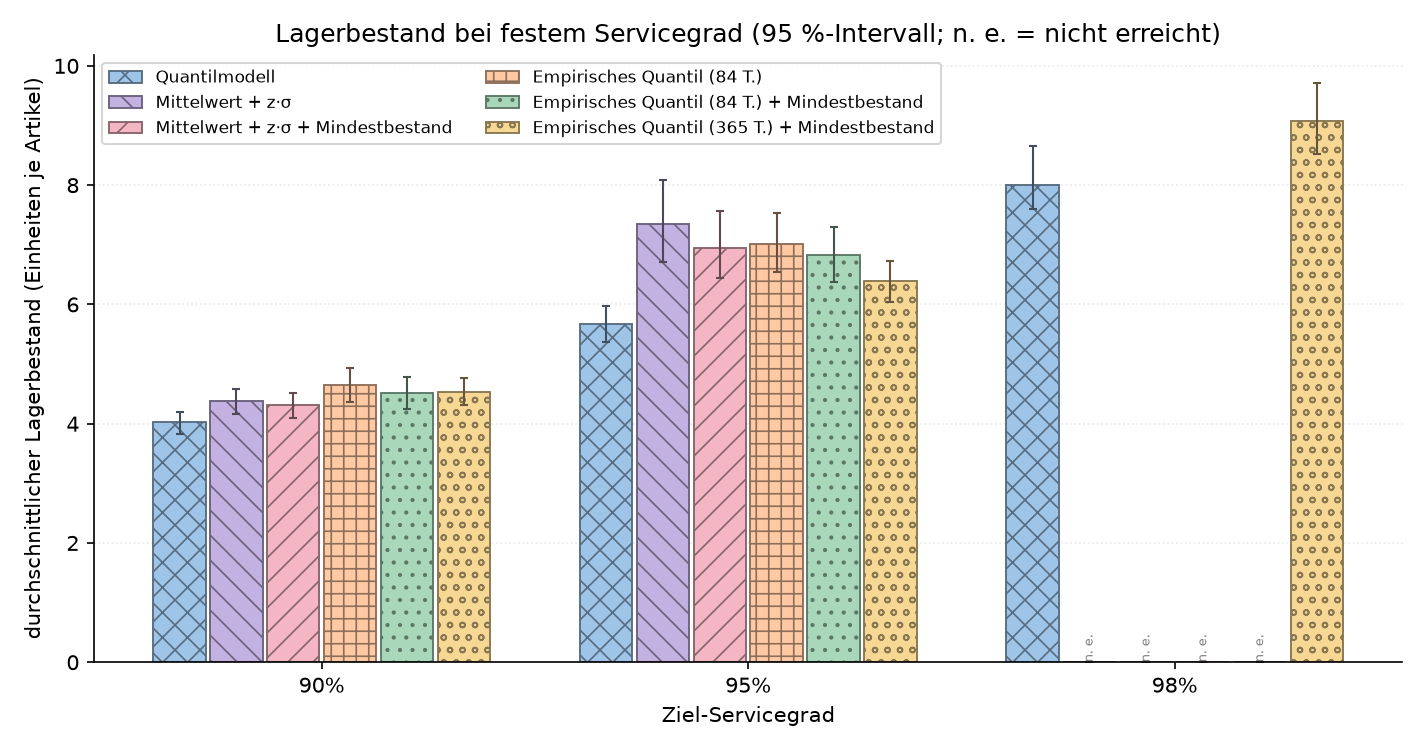
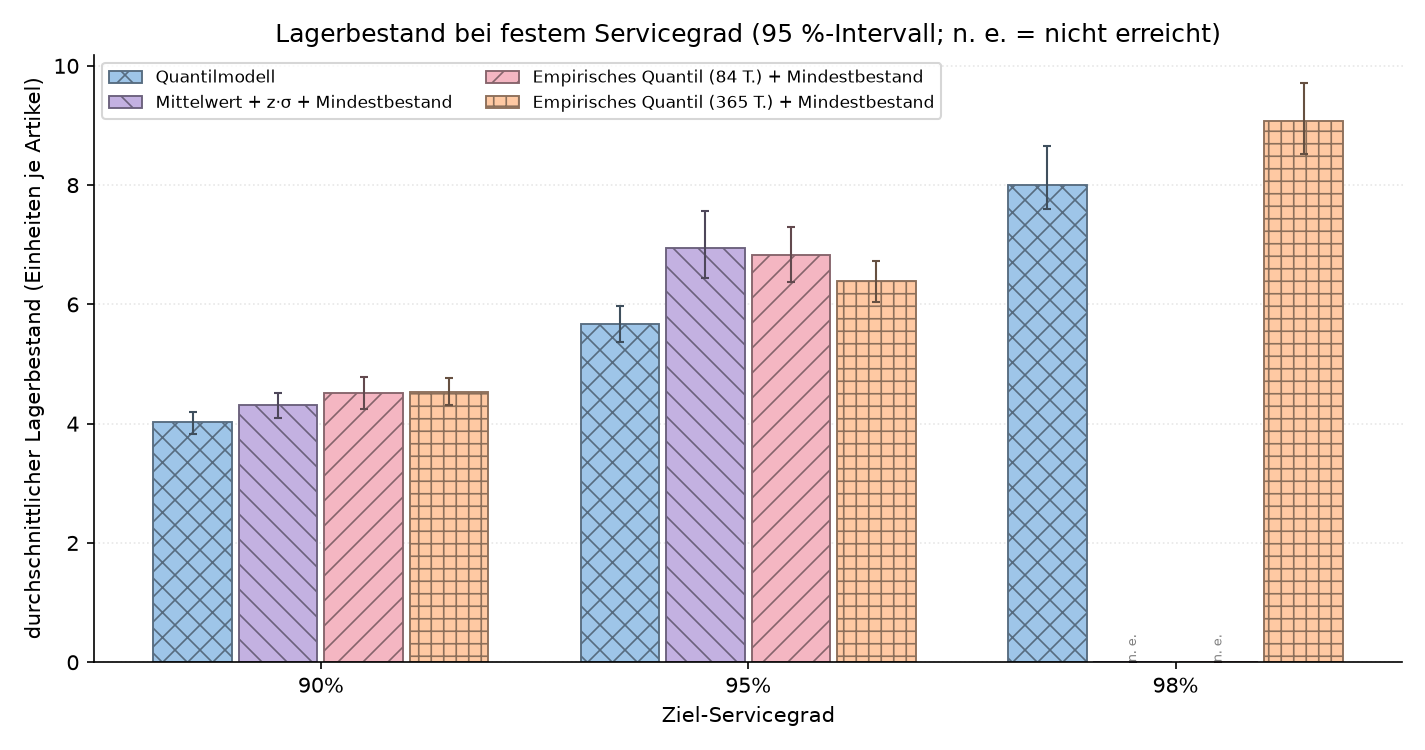
Dokumentation aktualisiert

diff --git a/docs/methodik.md b/docs/methodik.md
@@ -35,11 +35,11 @@ Grenzen und Hinweise zur Ausführung.
    Das Modell für die Bestandsentscheidung sagt die Bedarfssumme über Lieferzeit + 1 Tage direkt
    voraus. Das Trainingsfenster endet so, dass kein Zielfenster in den Testzeitraum reicht.
    Zusätzlich gibt es tägliche Quantilmodelle, die nur der Genauigkeitsmessung (WAPE) dienen.
-3. **Baselines** (`dfi/inventory.py`, Konfiguration `inventory.baselines`):
-   - `baseline_mean_z`: Mittelwert der letzten 28 Tage plus z mal Standardabweichung.
-   - `baseline_empirical_q_<Tage>`: empirisches Quantil der rollierenden Bedarfssummen im
+3. **Baselines** (`dfi/inventory.py`, Konfiguration `inventory.baselines`), alle mit einem
+   Mindestbestand von einer Einheit (`_floor`):
+   - `baseline_mean_z_floor`: Mittelwert der letzten 28 Tage plus z mal Standardabweichung.
+   - `baseline_empirical_q_<Tage>_floor`: empirisches Quantil der rollierenden Bedarfssummen im
      Rückblick von 84 bzw. 365 Tagen.
-   - Varianten mit Mindestbestand (`_floor`): Zielniveau mindestens 1 Einheit.
 4. **Bestandssimulation** (`dfi/inventory.py`): Order-up-to-Politik mit täglicher Disposition und
    Lieferzeit. Jede Politik wird über einen Parameterbereich (z bzw. q) simuliert.
 5. **Vergleich:** Statt einzelner Punkte werden (a) die Kompromisskurven, (b) der Lagerbestand bei
@@ -53,7 +53,7 @@ Grenzen und Hinweise zur Ausführung.
 
 ## Weitere Ergebnisse des Hauptlaufs
 
-- **Gesamtkosten** gegen die beste Baseline: r = 5: −2,0 % [−2,9 %, −0,9 %]; r = 10: −1,3 %
+- **Gesamtkosten** gegen die beste Baseline: r = 5: −3,1 % [−4,0 %, −2,0 %]; r = 10: −1,3 %
   [−2,5 %, −0,4 %]; r = 20: −5,8 % [−6,8 %, −4,6 %]; r = 50: −8,4 % [−10,3 %, −6,6 %];
   r = 100: −8,6 % [−10,8 %, −6,1 %].
 - **Pinball-Loss** bei q ab 0,99: 11 bis 42 % besser. Die empirische Baseline ist dort
@@ -71,10 +71,11 @@ Grenzen und Hinweise zur Ausführung.
 
 ## Diagnose der Baselines
 
-Artikel ohne Verkauf im Rückblick haben bei Baselines ohne Mindestbestand das Zielniveau 0
-(8,0 % der Artikel bei 28 Tagen, 3,3 % bei 84 Tagen, 0,2 % bei 365 Tagen). Das erklärt nur einen
-Teil der Lücke: Die Baselines mit 84 Tagen Rückblick erreichen höchstens etwa 97 % Servicegrad,
-die mit 365 Tagen und Mindestbestand etwa 99,5 %, das Modell etwa 99,8 %.
+Für Artikel ohne Verkauf im Rückblick (8,0 % der Artikel bei 28 Tagen, 3,3 % bei 84 Tagen,
+0,2 % bei 365 Tagen) hätten die Baselines ohne Mindestbestand das Zielniveau 0. Deshalb haben
+alle Baselines einen Mindestbestand von einer Einheit. Trotzdem stoßen sie an Grenzen: Höchstens
+erreichen „Mittelwert + z · σ“ etwa 97,9 % Servicegrad, das empirische Quantil über 84 Tage etwa
+97,4 % und über 365 Tage etwa 99,5 %. Das Modell kommt auf etwa 99,8 %.
 
 Das empirische Quantil kann nie über die größte Bedarfssumme im Rückblick steigen. Seine Kurve
 endet deshalb früh. „Mittelwert + z · σ“ ist nach oben offen, hilft aber nicht bei Artikeln ohne
@@ -126,12 +127,11 @@ an dieser Konstruktion der Baselines.
 | `cost_sensitivity.png` | Relative Kostendifferenz je Kostenverhältnis |
 | `pinball_improvement.png` | Pinball-Verbesserung der Bedarfssumme je Quantil |
 | `feature_importance.png` | Merkmalswichtigkeit (Gain) der Bedarfssummen-Modelle |
-| `feature_importance_daily.png` | Dasselbe für die täglichen Quantilmodelle |
-| `stability_splits.png` | Lagerbestand bei 95 % Servicegrad je Fenster |
-| `wape.png` | WAPE der täglichen Prognose |
-| `bootstrap_histograms.png` | Bootstrap-Verteilungen der wichtigsten Differenzen |
 
-`scripts/summarize_runs.py` schreibt zusätzlich `results/confirmation/confirmation_forest.png`.
+Die Zahlen ohne eigene Abbildung (WAPE der täglichen Prognose, Stabilität je Fenster, tägliche
+Merkmalswichtigkeit) stehen in der Konsolenausgabe sowie in `summary_ci.csv`,
+`stability_splits.csv` und `feature_importance.csv`. `scripts/summarize_runs.py` schreibt
+zusätzlich `results/confirmation/confirmation_forest.png`.
 
 ## Mögliche nächste Schritte
 

diff --git a/README.md b/README.md
@@ -9,7 +9,7 @@ M5-Verkaufsdaten von Walmart mit Quantilmodellen (LightGBM) und einer Bestandssi
 ## Kernergebnis
 
 Bei 95 % Servicegrad benötigt das Quantilmodell etwa 8 bis 11 % weniger Lagerbestand als die
-beste von fünf Baselines. Im Hauptlauf (Filiale CA_1, Februar bis Mai 2016) sind es 11,2 %
+beste von drei Baselines. Im Hauptlauf (Filiale CA_1, Februar bis Mai 2016) sind es 11,2 %
 (95-%-Intervall: 9,0 bis 13,6 %). Auf zwei weiteren Filialen und über zehn Monate bleibt der
 Vorsprung bei 8,3 bis 9,8 %.
 
@@ -48,7 +48,8 @@ Die vollständigen Tabellen liegen unter [`docs/results/`](docs/results/).
 2. **Quantilmodelle:** LightGBM sagt Quantile der Bedarfssumme über Lieferzeit plus einen Tag
    voraus. Daraus ergibt sich direkt der Zielbestand.
 3. **Baselines:** Mittelwert plus z mal Standardabweichung sowie empirische Quantile über 84 und
-   365 Tage, jeweils auch mit Mindestbestand. Verglichen wird immer mit der besten Baseline.
+   365 Tage, jeweils mit einem Mindestbestand von einer Einheit. Verglichen wird immer mit der
+   besten Baseline.
 4. **Bestandssimulation:** Order-up-to-Politik mit drei Tagen Lieferzeit. Ausgewertet werden
    Lagerbestand bei festem Servicegrad und Gesamtkosten.
 5. **Validierung:** drei rollierende 28-Tage-Fenster, Neutraining je Fenster,
